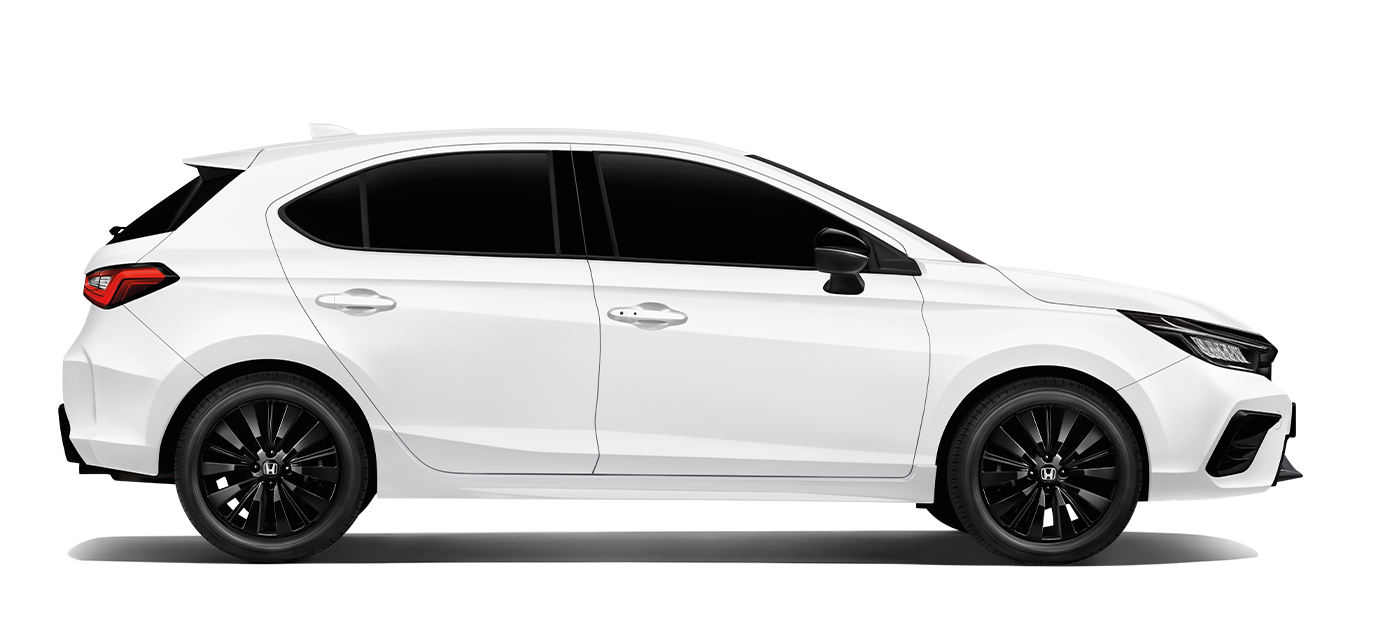
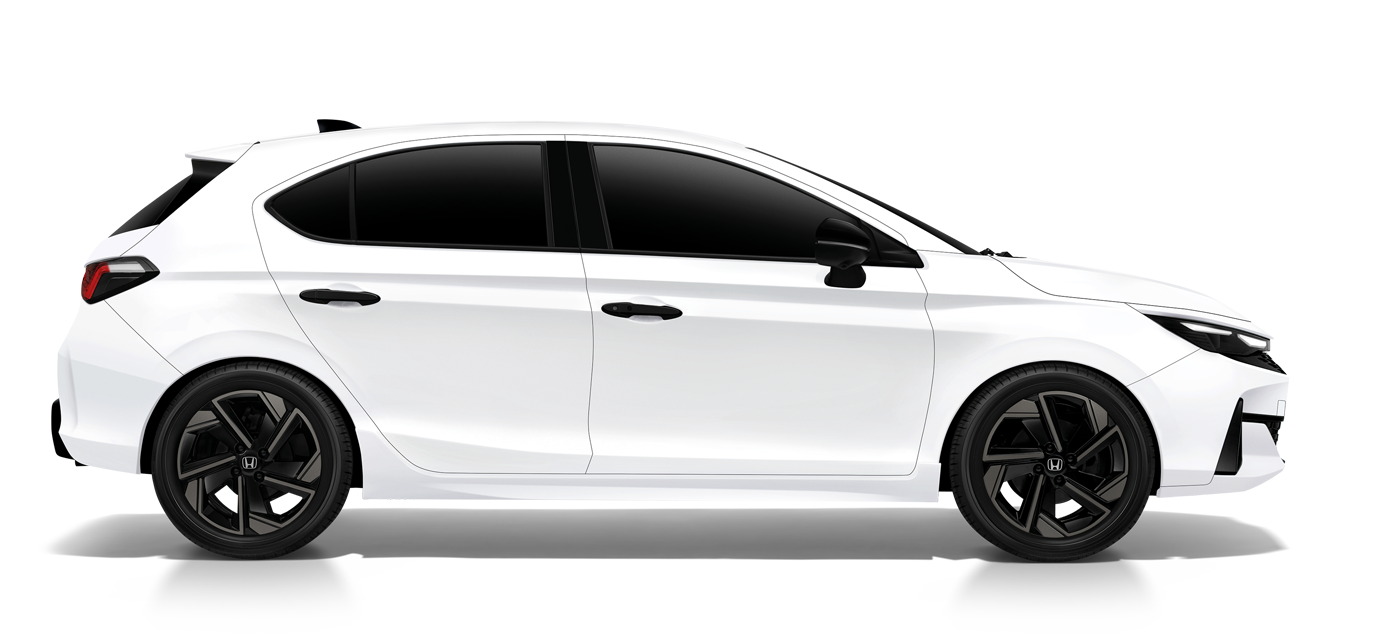
Update October Honda catalogue and launch rebate defaults

Changed region(s): [[0.0305, 0.1795, 0.9469, 0.9575], [0.0305, 0.5386, 0.0916, 0.5984]]

diff --git a/script.js b/script.js
@@ -1,4 +1,4 @@
-// Honda Malaysia, Peninsular private registration. Verified 2 October 2026.
+// Honda Malaysia, Peninsular private registration. Verified 29 October 2026.
 const vehicles = {
   "City": {
     slug: "city",
@@ -12,8 +12,6 @@ const vehicles = {
   "City Hatchback": {
     slug: "city-hatchback",
     variants: {
-      "1.5L S": { bodyPrice: 85560, retailPrice: 85900 },
-      "1.5L E": { bodyPrice: 90560, retailPrice: 90900 },
       "1.5L V": { bodyPrice: 95560, retailPrice: 95900 },
       "1.5L RS": { bodyPrice: 100560, retailPrice: 100900 },
       "1.5L e:HEV RS": { bodyPrice: 112560, retailPrice: 112900 },
@@ -73,10 +71,44 @@ const vehicles = {
   },
 };
 
-// Published September offers expired on 30 September 2026.
-// City launch rewards are eligibility/stock limited and have no published
-// unconditional amount. Do not assume either is a current cash rebate.
-const defaultRebate = 0;
+const promotion = {
+  startsOn: "2026-10-01",
+  endsOn: "2026-10-31",
+  launchStartsOn: "2026-10-19",
+  rewards: { "City": 7000, "City Hatchback": 4000, "Civic": 20000, "HR-V": 20000, "CR-V": 20000, "WR-V": 8000 },
+};
+
+function isPromotionActive(date = new Date()) {
+  const today = new Intl.DateTimeFormat("en-CA", {
+    timeZone: "Asia/Kuala_Lumpur",
+    year: "numeric",
+    month: "2-digit",
+    day: "2-digit",
+  }).format(date);
+  return today >= promotion.startsOn && today <= promotion.endsOn;
+}
+
+function getDefaultRebate(model, date = new Date()) {
+  const launchDate = new Date(`${promotion.launchStartsOn}T00:00:00+08:00`);
+  return model === "City Hatchback" && date >= launchDate && isPromotionActive(date)
+    ? 4000
+    : 0;
+}
+
+function updatePromotionNote() {
+  const model = modelSelect.value;
+  const note = document.querySelector("#rebate-note");
+  const reward = promotion.rewards[model];
+  if (!isPromotionActive()) {
+    note.textContent = "Rebate RM0 assumed. Confirm current offers with dealer.";
+  } else if (model === "City Hatchback" && getDefaultRebate(model) > 0) {
+    note.textContent = "RM4,000 launch cash reward. Register by 31 Oct 2026; T&Cs apply.";
+  } else if (reward) {
+    note.textContent = `October rewards up to ${formatRM(reward)}; eligibility applies. Confirm cash rebate with dealer.`;
+  } else {
+    note.textContent = "No verified cash rebate assumed. Confirm with dealer.";
+  }
+}
 
 const colors = {
   "Platinum White Pearl": { swatch: "#f0eee6" },
@@ -113,8 +145,8 @@ const colorAvailability = {
     "1.5L RS": ["Platinum White Pearl", "Meteoroid Gray Metallic", "Stellar Diamond Pearl", "Blazing Red Pearl"],
   },
   "City Hatchback": {
-    default: ["Ignite Red Metallic", "Platinum White Pearl", "Stellar Diamond Pearl", "Meteoroid Gray Metallic"],
-    "1.5L e:HEV RS": ["Ignite Red Metallic", "Platinum White Pearl", "Meteoroid Gray Metallic"],
+    default: ["Blazing Red Pearl", "Platinum White Pearl", "Stellar Diamond Pearl", "Meteoroid Gray Metallic"],
+    "1.5L e:HEV RS": ["Blazing Red Pearl", "Platinum White Pearl", "Meteoroid Gray Metallic"],
   },
   "WR-V": {
     default: ["Platinum White Pearl", "Meteoroid Gray Metallic", "Stellar Diamond Pearl", "Blazing Red Pearl"],
@@ -137,7 +169,7 @@ const colorAvailability = {
 
 const colorSurcharges = {
   "City": { "Platinum White Pearl": 400, "Blazing Red Pearl": 400 },
-  "City Hatchback": { "Platinum White Pearl": 400, "Ignite Red Metallic": 400 },
+  "City Hatchback": { "Platinum White Pearl": 400, "Blazing Red Pearl": 400 },
   "WR-V": {
     "Platinum White Pearl": 400,
     "Blazing Red Pearl": 400,
@@ -255,7 +287,8 @@ function populateColors() {
 function syncVariant() {
   const model = vehicles[modelSelect.value];
   bodyPriceInput.value = model.variants[variantSelect.value].bodyPrice;
-  rebateInput.value = defaultRebate;
+  rebateInput.value = getDefaultRebate(modelSelect.value);
+  updatePromotionNote();
   document.querySelector("#pricing-source").href =
     `https://www.honda.com.my/model/${model.slug}/pricing`;
   populateColors();
@@ -524,7 +557,7 @@ function resetCalculator() {
   syncVariant();
   colorSelect.value = "Platinum White Pearl";
   syncColor();
-  rebateInput.value = defaultRebate;
+  rebateInput.value = getDefaultRebate(modelSelect.value);
   interestRateInput.value = 2.25;
   insuranceOptionSelect.value = "include";
   ncdSelect.value = 0;

diff --git a/index.html b/index.html
@@ -135,7 +135,8 @@
                       inputmode="decimal"
                     />
                   </span>
-                  <small>Current rebate: confirm with dealer</small>
+                  <small id="rebate-note">Current rebate: confirm with dealer</small>
+                  <small><a href="https://www.honda.com.my/happening/" target="_blank" rel="noopener noreferrer">Official promotion &amp; eligibility</a></small>
                   <small class="validation-message" id="rebate-message"></small>
                 </label>
               </div>
@@ -305,9 +306,10 @@
         </div>
 
         <p class="disclaimer">
-          Honda Malaysia Peninsular private-registration prices checked 2 October 2026.
-          Rebate defaults to RM0: the published September promotion has expired;
-          City launch rewards require dealer confirmation.
+          Honda Malaysia Peninsular private-registration prices checked 29 October 2026.
+          October offers apply to registrations by 31 October 2026, subject to terms and stock.
+          City Hatchback defaults to RM4,000 launch cash reward during the campaign.
+          Other rebates require dealer confirmation; conditional rewards are not deducted automatically.
           Insurance uses a 3.3% estimate before NCD; the 2.25% interest rate is an editable estimate.
           This calculator provides an indicative estimate only. Final vehicle
           price, insurance premium, interest rate, and financing approval are
@@ -326,6 +328,6 @@
       <a href="#results">View result <span aria-hidden="true">&rarr;</span></a>
     </nav>
 
-    <script src="script.js?v=20261002"></script>
+    <script src="script.js?v=20261029"></script>
   </body>
 </html>

diff --git a/OFFICIAL_DATA.md b/OFFICIAL_DATA.md
@@ -1,6 +1,6 @@
 # Official Data Snapshot
 
-Verified 2 October 2026 against Honda Malaysia's live public pages. All prices
+Pricing and promotions verified 29 October 2026 against Honda Malaysia's live public pages. All prices
 are for Peninsular Malaysia, private registration, without insurance.
 Sabah, Sarawak, Langkawi, Labuan, company and foreigner registration prices
 are not represented by these presets.
@@ -18,8 +18,6 @@ User edits to body price, colour surcharge and rebate remain supported.
 | City | 1.5L V | 94,560.00 | 94,900.00 |
 | City | 1.5L RS | 99,560.00 | 99,900.00 |
 | City | 1.5L e:HEV RS | 111,560.00 | 111,900.00 |
-| City Hatchback | 1.5L S | 85,560.00 | 85,900.00 |
-| City Hatchback | 1.5L E | 90,560.00 | 90,900.00 |
 | City Hatchback | 1.5L V | 95,560.00 | 95,900.00 |
 | City Hatchback | 1.5L RS | 100,560.00 | 100,900.00 |
 | City Hatchback | 1.5L e:HEV RS | 112,560.00 | 112,900.00 |
@@ -51,24 +49,36 @@ User edits to body price, colour surcharge and rebate remain supported.
 - [e:N1](https://www.honda.com.my/model/en1/pricing)
 - [Prelude](https://www.honda.com.my/model/prelude/pricing)
 
-City Hatchback's individual fee rows currently do not reconcile with its
-published selling/retail totals (number plate is listed as RM150). The app
-uses the published totals, not an invented correction to either price.
+All nine pricing pages were rechecked. The retained selling/retail prices
+are unchanged from the earlier snapshot. City Hatchback S and E are no
+longer listed: the current catalogue has 24 variants across nine models.
+Its number-plate row is now RM50, consistent with the published totals.
 
 ## Rebate Defaults
 
-Default cash rebate is RM0 for every variant, on initial load, variant/model
-changes and reset. It can be edited to a dealer-confirmed amount.
+On load, model/variant changes and reset, City Hatchback defaults to RM4,000
+during the October campaign. Other models default to RM0 because an
+unconditional per-variant cash amount was not published in the sources below.
+All rebates remain editable for dealer-confirmed quotations.
 
-- The [published national promotion](https://www.honda.com.my/happening/)
-  explicitly applies to registrations from 1 to 30 September 2026. Its
-  cash rebates, loyalty rewards, hybrid support, dealer rewards and service
-  vouchers are not assumed to continue into October or combined as cash.
-- The [24 September City launch announcement](https://www.honda.com.my/press-release/view/855/new-city-evolved-for-more-made-for-urban-essential)
-  mentions rewards for the first 2,400 eligible customers without publishing
-  an unconditional cash amount. Dealer confirmation is required.
-- No verified current unconditional October rebate was found at the time
-  of this snapshot. RM0 means no rebate assumed, not that no offer exists.
+- The [19 October launch announcement](https://www.honda.com.my/press-release/view/859/elevated-design-meets-uncompromised-utility-honda-malaysia-launches-the-new-city-hatchback)
+  explicitly offers RM4,000 cash reward for registration of any New City
+  Hatchback variant. Separate HCUC RM2,000 / CARSOME RM1,000 trade-in rewards
+  are conditional and are not added to the default.
+- The [Fun Begins with Honda promotion](https://www.honda.com.my/happening/)
+  applies to registrations from 1 to 31 October 2026. Advertised total rewards:
+  City up to RM7,000; City Hatchback RM4,000; Civic, HR-V and CR-V up to
+  RM20,000 each; WR-V RM8,000. These model-level totals are not assumed to be
+  unconditional cash rebates for every variant.
+- Sales support depends on ownership/family eligibility (and, for City,
+  government service or national-car upgrade); hybrid support applies only to
+  HR-V/CR-V. Fun Rewards depends on participating dealers, Early Bird support
+  is capped, and offers depend on variant, excise year and stock.
+- The app displays the applicable model's reward context and a source link.
+  Default RM4,000 starts on 19 October and ends at midnight after 31 October
+  in Asia/Kuala_Lumpur. Outside the campaign it returns to RM0 on load or
+  model/variant/reset changes. No new promotion is inferred automatically.
+  A user-entered rebate is not overwritten while editing other inputs.
 
 ## Colours And Images
 
@@ -77,8 +87,10 @@ Colour availability comes from the current official brochures linked on
 
 - City: September 2026 brochure, page 19. Stellar Diamond Pearl only for V
   and petrol RS; E and hybrid exclude it. Blazing Red replaces Ignite Red.
-- City Hatchback: July 2026 brochure, page 18. Phoenix Orange is no longer
-  listed; hybrid excludes Stellar Diamond Pearl.
+- City Hatchback: the 19 October launch announcement confirms Blazing Red,
+  Platinum White, Meteoroid Gray and Stellar Diamond (petrol only).
+  Blazing Red replaces Ignite Red; its RM400 surcharge follows the current
+  pricing page. The model image is updated to Honda's October navigation PNG.
 - Civic: May 2026 brochure, page 18. Crystal Black Pearl only for 1.5L V.
 - HR-V: July 2026 brochure, page 18. Phoenix Orange is no longer listed.
 - CR-V: May 2026 brochure, page 18.
